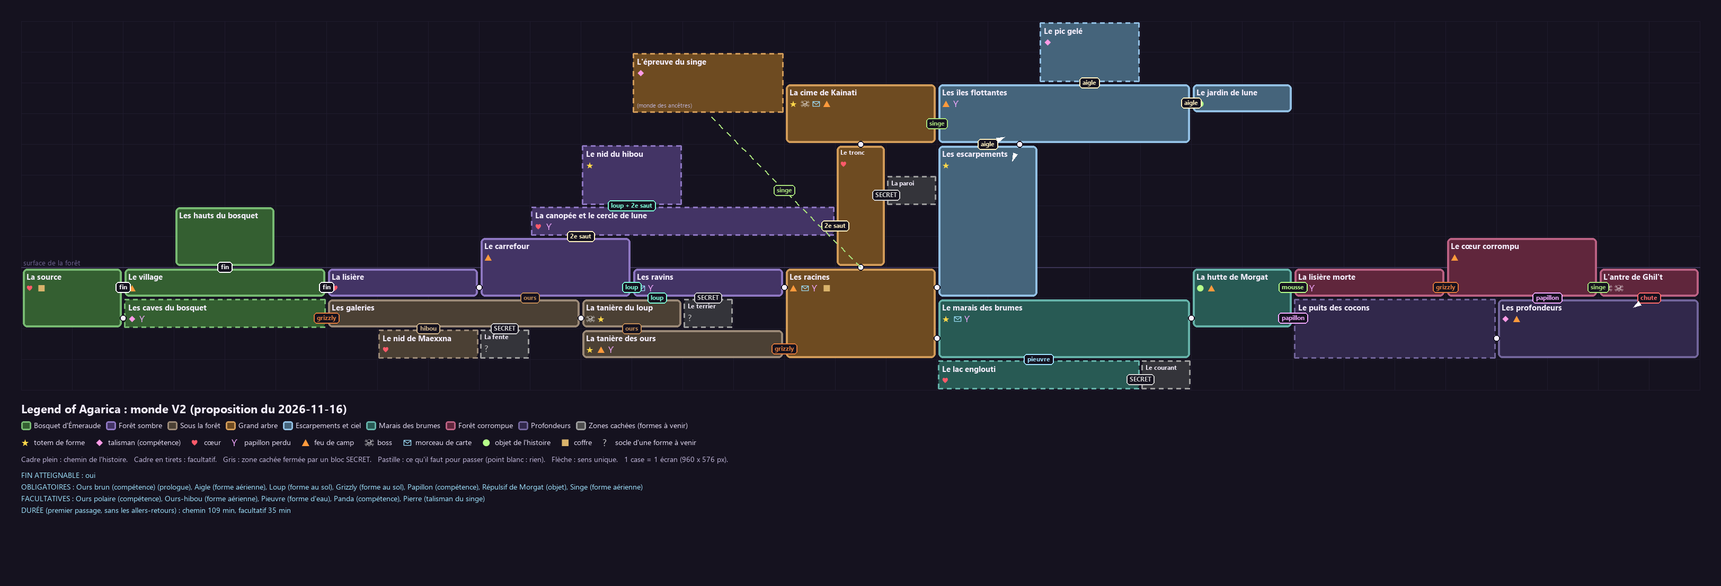
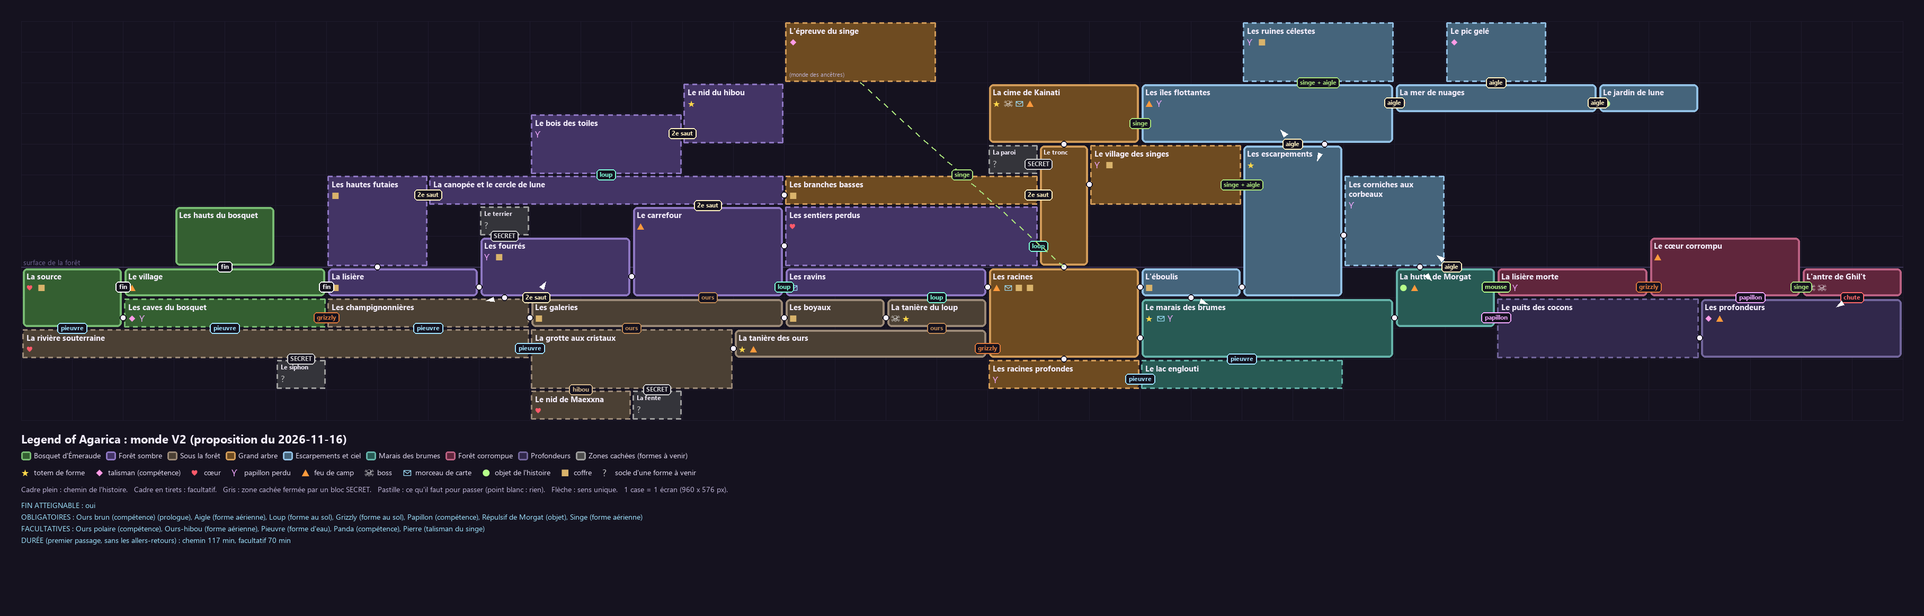
Monde V2 : 15 zones de pure exploration en plus (foret sombre, sous la foret, grand arbre, escarpements et ciel), 48 zones, recompenses et fiches mises a jour

Changed region(s): [[0.0, 0.0307, 0.9951, 0.8915]]

diff --git a/docs/production/PLAN_MONDE_V2.md b/docs/production/PLAN_MONDE_V2.md
@@ -1,7 +1,8 @@
 # Monde V2 : la nouvelle carte, conçue de zéro
 
 Version du 2026-11-16, après « on peut rien faire de bien sur une base bancale, refais tout un plan,
-toute une carte de 0 ». Rien ne part des zones actuelles ; seuls les mécaniques, les personnages et
+toute une carte de 0 », puis « je veux beaucoup plus de zones intermédiaires de pure exploration »
+(15 zones ajoutées dans la forêt sombre, sous la forêt, le grand arbre, les escarpements et le ciel). Rien ne part des zones actuelles ; seuls les mécaniques, les personnages et
 l'art des biomes sont repris. Rien n'est encore changé dans le jeu.
 
 **Fichiers :**
@@ -13,6 +14,8 @@ l'art des biomes sont repris. Rien n'est encore changé dans le jeu.
 **Tes réponses du 2026-11-16 :**
 - trame souple : on peut déplacer des événements, le fond de l'histoire reste ;
 - durée visée : environ 1 h 30 pour l'histoire, plus 1 h de secrets ;
+- plus de zones de pure exploration : 3 à 4 de plus dans chacune des quatre régions qui suivent le
+  bosquet ;
 - formes obligatoires : « au plus naturel », mais surtout pas une ligne droite ;
 - bosquet : retour en cachette.
 
@@ -21,8 +24,8 @@ l'art des biomes sont repris. Rien n'est encore changé dans le jeu.
 1. **Chaque zone a une raison d'exister** : une scène de l'histoire, une forme à obtenir, un verrou à
    montrer, un raccourci ou une récompense. Aucune zone de remplissage ; les fiches du § 7 donnent la
    raison de chacune.
-2. **On voit le verrou avant d'avoir la clé.** Chaque forme obligatoire est vue fermée dans 2 à
-   7 zones avant d'être obtenue (mesuré par le script, § 9). Xara commente chaque passage fermé.
+2. **On voit le verrou avant d'avoir la clé.** Chaque capacité obligatoire est vue fermée dans 3 à
+   13 zones avant d'être obtenue (mesuré par le script, § 9). Xara commente chaque passage fermé.
 3. **On se sert d'une forme tout de suite** :
    - la sortie de la tanière du loup demande le loup ;
    - le combat de Kainati se joue dans les lianes, juste après le totem du singe ;
@@ -98,7 +101,11 @@ Le crapaud reste hors du monde, comme tu l'as dit.
 
 ![Carte du monde V2](monde_v2/carte.png)
 
-- **33 zones** : 21 sur le chemin de l'histoire, 8 facultatives et 4 zones cachées.
+- **48 zones** : 25 sur le chemin de l'histoire, 19 facultatives et 4 zones cachées.
+- **15 zones de pure exploration** ont été ajoutées (marquées ✚ dans les fiches) :
+  - 4 sont **sur le chemin**, entre deux étapes de l'histoire : fourrés, boyaux, éboulis, mer de
+    nuages ;
+  - 11 sont **des boucles** qui relient deux chemins, avec une récompense au bout.
 - **8 régions** : Bosquet, Forêt sombre, Sous la forêt, Grand arbre, Escarpements et ciel, Marais,
   Forêt corrompue, Profondeurs.
 - La géographie se tient :
@@ -108,26 +115,28 @@ Le crapaud reste hors du monde, comme tu l'as dit.
   - la falaise des escarpements surplombe le marais ;
   - la corruption s'étend à l'est et descend dans les profondeurs ;
   - la plante pousse sur un rocher au-dessus de la corruption, la seule chose qu'elle ne touche pas.
-- Une case de la carte vaut un écran (960 × 576 px). L'ensemble fait environ 170 écrans, contre
+- Une case de la carte vaut un écran (960 × 576 px). L'ensemble fait environ 215 écrans, contre
   environ 100 aujourd'hui.
 
 ## 5. Le parcours : un ordre libre
 
 ```
-Prologue (bosquet) ── bannissement ── lisière ── carrefour (Xara) ── galeries ── LOUP
-                                                                                  │
-            ┌───────────────────┬────────────────────┬───────────────────┬────────┘
-            ▼                   ▼                    ▼                   ▼
-   SINGE (arbre, Kainati)   AIGLE (escarpements)   GRIZZLY (tanière     Morgat, 1re visite
-            │                   │                   des ours)            (facultative)
-            │                   ▼                    │                   │
-            │              PLANTE (jardin, Amanite)  │                   │
-            │                   ▼                    │                   │
-            │              RÉPULSIF (Morgat) ◄───────┼───────────────────┘
-            ▼                   ▼                    ▼
-            └───────► FORÊT CORROMPUE (mousse + grizzly + singe) ◄─┘
-                                ▼
-                 Ghil't (défaite) ── profondeurs : PAPILLON ── Ghil't soigné ── fin
+Prologue (bosquet) ── lisière ── fourrés ── carrefour (Xara) ── galeries ── boyaux ── LOUP
+                                                                                       │
+          ┌────────────────────┬──────────────────────┬───────────────────┬────────────┘
+          ▼                    ▼                      ▼                   ▼
+   SINGE (arbre,        AIGLE (éboulis,         GRIZZLY (tanière     Morgat, 1re visite
+   Kainati)             escarpements)           des ours)            (facultative)
+          │                    ▼                      │                   │
+          │             mer de nuages                 │                   │
+          │                    ▼                      │                   │
+          │             PLANTE (jardin, Amanite)      │                   │
+          │                    ▼                      │                   │
+          │             RÉPULSIF (Morgat) ◄───────────┼───────────────────┘
+          ▼                    ▼                      ▼
+          └──────────► FORÊT CORROMPUE (mousse + grizzly + singe)
+                               ▼
+              Ghil't (défaite) ── profondeurs : PAPILLON ── Ghil't soigné ── fin
 ```
 
 Après le loup, il y a quatre buts dans l'ordre qu'on veut. La forêt corrompue demande les trois formes
@@ -135,88 +144,104 @@ et le répulsif. Le script le vérifie : le singe, l'aigle et le grizzly ne dema
 
 Trois exemples de parties :
 - **Par l'arbre** : loup → racines → tronc → cime (singe) → îles → on tombe aux escarpements (aigle) →
-  jardin (plante) → marais → Morgat (répulsif) → mur de pierre fermé → retour à la tanière des ours
+  mer de nuages → jardin (plante) → marais → Morgat (répulsif) → mur de pierre fermé → retour à la tanière des ours
   (grizzly) → forêt corrompue.
-- **Par la falaise** : loup → escarpements (aigle) → îles → jardin (plante) → Morgat → mur de pierre →
+- **Par la falaise** : loup → éboulis → escarpements (aigle) → îles → mer de nuages → jardin (plante) → Morgat → mur de pierre →
   tanière des ours → forêt corrompue : il faut des lianes → retour à l'arbre (singe) → forêt corrompue.
 - **Le curieux** : loup → il casse aussitôt le sol de la tanière (grizzly) → les caves du bosquet
   (panda, le père) → le reste.
 
 Durée estimée, au premier passage :
-- **histoire** : 109 minutes, plus les allers-retours, soit 1 h 45 à 2 h ; un peu au-dessus de ton
-  1 h 30 ;
-- **facultatif** : 35 minutes de zones, plus les cœurs, les papillons et les retours, soit environ 1 h.
+- **histoire** : 117 minutes, plus les allers-retours, soit environ 2 h 10. C'est au-dessus de ton
+  1 h 30, à cause des 4 zones d'exploration ajoutées sur le chemin ;
+- **facultatif** : 70 minutes de zones, plus les cœurs, les papillons et les retours, soit environ
+  1 h 30.
 
 Ce sont des estimations : on resserrera au chronomètre pendant la construction en blocs.
 
 ## 6. Ce qu'on trouve
 
-- **Cœurs** : on part avec 3, et il y a **7 graines de cœur**, chacune derrière une capacité
+Chaque zone d'exploration a au moins une récompense.
+
+- **Cœurs** : on part avec 3, et il y a **8 graines de cœur**, chacune derrière une capacité
   différente :
 
   | Où | Ce qu'il faut |
   |---|---|
-  | lisière | loup |
+  | sentiers perdus | loup |
   | source | second saut, en revenant par les caves |
   | cercle de lune | second saut |
   | tronc | grizzly |
   | nid de Maexxna | ours-hibou |
-  | lac englouti | pieuvre |
+  | rivière souterraine | pieuvre |
+  | mer de nuages | aigle |
   | puits des cocons | papillon |
 
   Le passif des ursidés en ajoute un.
-- **Papillons perdus de Morgat : 9**, au plus un par zone, chacun derrière un petit détour.
-  - Tous les 3 papillons, la compétence du papillon gagne un niveau.
+- **Papillons perdus de Morgat : 12**, au plus un par zone, presque tous dans les zones
+  d'exploration.
+  - Tous les 3 papillons, la compétence du papillon gagne un niveau (4 niveaux).
   - Morgat les reconnaît : ce sont les siens, partis chercher des plantes.
+- **Coffres d'Éclats de lune : 14**, souvent derrière une capacité obtenue plus tard. Les Éclats
+  s'achètent chez **Tamarin**, le marchand, qui s'installe au carrefour quand on revient avec le loup.
+  On en gagne aussi sur les ennemis.
 - **Cartes** :
   - Geralt en donne 4 (forêt et dessous, arbre, marais, forêt corrompue), Kainati celle du ciel ;
   - le bosquet est connu dès le départ ;
   - les profondeurs restent sans carte.
 - **Feux de camp : 9** : village, carrefour, racines, cime, îles, tanière des ours, hutte, cœur corrompu,
   profondeurs.
-- **Éclats de lune** :
-  - on en gagne sur les ennemis et dans les coffres (fond du bassin de la source : pieuvre ;
-    sous la dalle des racines : ours-hibou) ;
-  - **Tamarin**, le marchand, s'installe au carrefour quand on revient avec le loup.
 
 ## 7. Les zones, une par une
 
 Taille en écrans (largeur × hauteur). « Vu » : les verrous qu'on y voit avant d'avoir la clé.
+✚ : zone de pure exploration ajoutée.
 
 ### Bosquet d'Émeraude : prologue, retour en cachette, épilogue
 
 | Zone | Pourquoi elle existe | Vu, sorties |
 |---|---|---|
 | **Le village** (4×1) | Prologue : marcher, sauter, couper les ronces de mousse à la dague. Le père confie le talisman de l'ours. Feu de camp. On y revient pour l'épilogue. | Sorties vers la source (ouest), les hauts (en haut) et la porte de l'Est. Après le bannissement, tout est barré jusqu'à la fin. |
-| **La source** (2×2) | Le bassin est étouffé par la mousse : on casse un sol fissuré avec l'ours pour libérer l'eau. C'est le tutoriel de l'ours, et l'eau qui recoule est la récompense. Premier petit monstre de mousse. | Dès le prologue, on voit : un cœur sur une corniche trop haute (second saut), le fond du bassin où l'eau s'engouffre (pieuvre : un coffre), une porte barrée vers les caves. |
+| **La source** (2×2) | Le bassin est étouffé par la mousse : on casse un sol fissuré avec l'ours pour libérer l'eau. C'est le tutoriel de l'ours, et l'eau qui recoule est la récompense. Premier petit monstre de mousse. | Dès le prologue, on voit : un cœur sur une corniche trop haute (second saut), le fond du bassin où l'eau s'engouffre (pieuvre : coffre, et la rivière souterraine), une porte barrée vers les caves. |
 | **Les hauts du bosquet** (2×2) | La nuit, Agarica voit Amanite monter au sanctuaire : vol de l'idole, mensonge, découverte, bannissement. On y apprend le petit saut. | Se rouvre après la fin. |
-| **Les caves du bosquet** (4×1, facultatif) | Le retour en cachette, par le mur fissuré des galeries (grizzly). On entend le père défendre sa fille à travers le plancher. Sur l'autel des anciens guérisseurs, le talisman du panda. Papillon 9. | On débarre de l'intérieur la porte de la source : elle redevient visitable (cœur, coffre). |
+| **Les caves du bosquet** (4×1, facultatif) | Le retour en cachette, par le mur fissuré des champignonnières (grizzly) ou par la rivière (pieuvre). On entend le père défendre sa fille à travers le plancher. Sur l'autel des anciens guérisseurs, le talisman du panda. Papillon 12. | On débarre de l'intérieur la porte de la source : elle redevient visitable. |
 
 ### Forêt sombre
 
 | Zone | Pourquoi elle existe | Vu, sorties |
 |---|---|---|
-| **La lisière** (3×1) | Bannie, seule, la nuit : premiers vrais combats (loups sanguinaires). La porte de l'Est est barrée derrière soi. | Un cœur de l'autre côté d'un ravin trop large (loup). |
-| **Le carrefour** (3×2) | La clairière centrale, où l'on repasse souvent. Rencontre de Xara, feu de camp, plus tard Tamarin. Au loin dans le ciel, le rocher de lune où brille la plante. | Le grand ravin à l'est (loup) et la corniche de la canopée (second saut). Le sol sonne creux : Xara le fait remarquer, on le casse avec l'ours et on descend aux galeries. |
-| **Les ravins** (3×1) | Après le loup : longs sauts, pistes et plateformes cachées. Geralt et son combat ridicule : carte de la forêt. Papillon 2, par les plateformes cachées. | Bloc SECRET : terre meuble (canidé). On repart vers les racines. |
-| **La canopée et le cercle de lune** (6×1, facultatif) | Les branches au-dessus du carrefour, jusqu'au tronc : un raccourci. Le cercle de lune : pierres levées et fresque des formes, l'histoire du Cercle de la Lune. Cœur, papillon 4. | Des plateformes fantômes montent vers le nid du hibou (loup puis second saut). |
-| **Le nid du hibou** (2×2, facultatif) | Un nid géant dans les hautes branches, avec le totem de l'ours-hibou. On en sort en cassant la dalle du nid en retombant : premier usage. | — |
+| **La lisière** (3×1) | Bannie, seule, la nuit : premiers vrais combats (loups sanguinaires). La porte de l'Est est barrée derrière soi. | Un coffre de l'autre côté d'un ravin trop large (loup). On peut grimper vers les hautes futaies. |
+| ✚ **Les hautes futaies** (2×3, facultatif) | Une montée sur des troncs couchés au-dessus de la lisière, pour qui veut grimper dès le début. En haut, le premier panorama : le grand arbre au loin, et la lueur de la plante encore plus loin. Le joueur voit tout de suite qu'il y a un monde à explorer. Coffre au sommet par les plateformes cachées (loup). | Le haut rejoint la canopée (second saut). |
+| ✚ **Les fourrés** (3×2, chemin) | Entre la lisière et le carrefour, sur deux étages : un sentier bas sous les ronces, un sentier haut dans les branches. On y apprend à fouiller : une haie de ronces cède à la dague et cache le papillon 1. | Coffre sur la haute branche (second saut). Bloc SECRET : terre meuble dans un talus (canidé). Un puits de champignons descend aux champignonnières ; on le remonte avec le second saut. |
+| **Le carrefour** (3×3) | La clairière centrale, où l'on repasse souvent. Rencontre de Xara, feu de camp, plus tard Tamarin. | Le grand ravin à l'est (loup), la corniche de la canopée (second saut), les sentiers perdus au nord-est. Le sol sonne creux : Xara le fait remarquer, on le casse avec l'ours et on descend aux galeries. |
+| ✚ **Les sentiers perdus** (5×2, facultatif) | Un labyrinthe de sentiers. On y entre dès le début, mais les fausses pistes ramènent au carrefour : c'est le loup qui « distingue une fausse piste d'une vraie ». Avec lui, les empreintes montrent la vraie piste, vers un cœur au centre et vers le pied du tronc : un second chemin vers l'arbre. | La vraie piste (loup). |
+| **Les ravins** (4×1) | Après le loup : longs sauts, pistes et plateformes cachées. Geralt et son combat ridicule : carte de la forêt. | On repart vers les racines. |
+| **La canopée et le cercle de lune** (7×1, facultatif) | Les branches au-dessus de la forêt, des futaies jusqu'aux branches basses de l'arbre. Le cercle de lune : pierres levées et fresque des formes, l'histoire du Cercle de la Lune. Cœur. | Des plateformes fantômes montent vers le bois des toiles (loup). |
+| ✚ **Le bois des toiles** (3×2, facultatif) | Des arbres couverts de toiles, où l'on avance lentement entre les fils. Les araignées s'écartent devant Xara sans qu'elle explique pourquoi : un indice de son secret. Le papillon 2 est pris dans une toile. | Le nid du hibou plus haut (second saut). |
+| **Le nid du hibou** (2×2, facultatif) | Un nid géant dans les plus hautes branches, avec le totem de l'ours-hibou. On en sort en cassant la dalle du nid en retombant : premier usage. | — |
 
 ### Sous la forêt
 
 | Zone | Pourquoi elle existe | Vu, sorties |
 |---|---|---|
-| **Les galeries** (5×1) | Les tunnels sous le carrefour, avec araignées et toiles. Un escalier de racines permet de remonter au trou. | Mur fissuré à l'ouest (grizzly : les caves). Dalle gravée d'araignées (ours-hibou : nid de Maexxna). Mousse sur une niche (répulsif : papillon 1). Bloc SECRET : fente minuscule (insecte). |
-| **La tanière du loup** (2×1) | Le loup alpha garde le totem du loup. On ressort par le haut grâce aux plateformes cachées : on se sert du loup aussitôt obtenu. | Un sol fissuré (ours) mène à la tanière des ours. On peut y descendre tout de suite, et en remonter sans le loup. |
-| **La tanière des ours** (4×1) | L'ancienne tanière des ours du peuple d'Agarica : griffures et fresques. De longs sauts (loup) mènent au totem du grizzly, avec un feu de camp à côté pour changer de forme. Papillon 7. | Sortie est : un mur fissuré (grizzly) vers les racines, qu'on voit aussi depuis les racines. C'est un raccourci. |
+| ✚ **Les champignonnières** (4×1, facultatif) | Des champignons géants lumineux sous la lisière et les fourrés : une boucle entre les galeries et la surface. Papillon 3 derrière la mousse (répulsif). | Mur fissuré à l'ouest (grizzly : les caves du bosquet). Berge de la rivière (pieuvre). Le puits des fourrés, en haut (second saut). |
+| **Les galeries** (5×1) | Les tunnels sous le carrefour, avec araignées et toiles. C'est le nœud du dessous : champignonnières à l'ouest, boyaux à l'est, grotte aux cristaux en dessous. Un escalier de racines permet de remonter au trou. | Coffre derrière la mousse (répulsif). Sol fissuré vers la grotte aux cristaux (ours). |
+| ✚ **Les boyaux** (2×1, chemin) | Des tunnels étroits juste avant la tanière : on entend hurler le loup alpha, des loups tendent des embuscades. La tension monte avant le mini-boss. Coffre sous un sol fissuré. | — |
+| **La tanière du loup** (2×1) | Le loup alpha garde le totem du loup. On ressort par le haut grâce aux plateformes cachées : on se sert du loup aussitôt obtenu. | Un sol fissuré (ours) mène à la tanière des ours. On peut en remonter sans le loup. |
+| ✚ **La grotte aux cristaux** (4×2, facultatif) | Une grande grotte éclairée par des cristaux de lune, sous les galeries. Elle relie les galeries, la tanière des ours et la rivière. Papillon 4. | Dalle gravée d'araignées (ours-hibou : nid de Maexxna). Eau (pieuvre : rivière). Bloc SECRET : fente minuscule entre les cristaux (insecte). |
+| **La tanière des ours** (5×1) | L'ancienne tanière des ours du peuple d'Agarica : griffures et fresques. De longs sauts (loup) mènent au totem du grizzly, avec un feu de camp à côté pour changer de forme. On y entre par la tanière du loup ou par la grotte aux cristaux. | Sortie est : un mur fissuré (grizzly) vers les racines, qu'on voit aussi depuis les racines. C'est un raccourci. |
+| ✚ **La rivière souterraine** (10×1, facultatif) | La rivière qui part de la source du bosquet et file sous toute la forêt, à la nage (pieuvre). La pieuvre y gagne une vraie utilité : un réseau rapide entre la source, les caves, les champignonnières et la grotte aux cristaux. Cœur dans une grotte noyée. | Bloc SECRET : un siphon au courant trop fort (poisson). |
 | **Le nid de Maexxna** (2×1, facultatif) | Sous la dalle, la salle du trône d'une reine araignée. Les fresques montrent une araignée couronnée aux yeux de Xara. Xara : « Ne restons pas ici. » Cœur. | — |
 
 ### Grand arbre
 
 | Zone | Pourquoi elle existe | Vu, sorties |
 |---|---|---|
-| **Les racines** (3×3) | Le pied de l'arbre : ponts et tunnels de racines sur trois étages. Feu de camp. Geralt ne sait pas grimper : il donne la carte de l'arbre et reste en bas. L'arche de l'épreuve est ici. | Sorties : tronc (en haut), escarpements (à l'est, en haut), marais (à l'est, en bas). Lianes trop hautes (singe). Noix suspendue (pierre : papillon 3). Dalle (ours-hibou : coffre). Mur fissuré de la tanière des ours. |
-| **Le tronc** (1×4) | L'intérieur creux de l'arbre : la grande montée, avec des singes corrompus. | Porte de la canopée (second saut). Mur fissuré (grizzly : cœur). Bloc SECRET : paroi lisse (félin). |
+| **Les racines** (3×3) | Le pied de l'arbre : ponts et tunnels de racines sur trois étages. Feu de camp. Geralt ne sait pas grimper : il donne la carte de l'arbre et reste en bas. L'arche de l'épreuve est ici. | Sorties : tronc (en haut), éboulis (à l'est), marais (à l'est, en bas), racines profondes (en bas). Noix suspendue (pierre : coffre). Dalle (ours-hibou : coffre). Mur fissuré de la tanière des ours. |
+| ✚ **Les racines profondes** (3×1, facultatif) | Les racines plongent dans une eau noire, et l'on voit la mousse remonter par l'eau jusque dans l'arbre : c'est ce qui le rend malade. Papillon 5. | L'eau au bout des racines mène au lac englouti (pieuvre). |
+| **Le tronc** (1×4) | L'intérieur creux de l'arbre : la grande montée, avec des singes corrompus. | Branches basses (second saut). Village des singes. Mur fissuré (grizzly : cœur). Bloc SECRET : paroi lisse (félin). Les sentiers perdus arrivent à son pied (loup). |
+| ✚ **Les branches basses** (5×1, facultatif) | De longues branches au-dessus du vide, avec des corbeaux, entre la canopée et le tronc. Le raccourci entre la forêt et l'arbre devient un parcours. Coffre au bout de la plus longue branche. | — |
+| ✚ **Le village des singes** (3×2, facultatif) | Des huttes dans les branches, à mi-hauteur du tronc. Avant Kainati, les singes sont corrompus et attaquent ; après, ils sont amis et parlent de leur roi. Papillon 6, coffre dans la plus haute hutte (singe). | Il relie l'arbre aux escarpements par les lianes (singe) ou au plané (aigle) : une boucle entre l'arbre et la falaise. |
 | **La cime de Kainati** (3×2) | Le totem du singe s'allume, Kainati attaque. On le combat dans les lianes, on l'épargne, et il donne la carte du ciel. Feu de camp. | Lianes de la couronne vers les îles (singe). |
 | **L'épreuve du singe** (poche, facultatif) | Le monde des ancêtres, par l'arche des racines : une course de lianes sans toucher le sol, plus courte qu'aujourd'hui. Talisman du singe : la pierre. | — |
 
@@ -224,8 +249,12 @@ Taille en écrans (largeur × hauteur). « Vu » : les verrous qu'on y voit avan
 
 | Zone | Pourquoi elle existe | Vu, sorties |
 |---|---|---|
+| ✚ **L'éboulis** (2×1, chemin) | Le pied de la falaise, couvert de rochers tombés, entre les racines et les escarpements. Coffre derrière un mur fissuré (grizzly). | On peut sauter dans le marais en contrebas. |
 | **Les escarpements** (2×5) | Une falaise à l'est de l'arbre. On grimpe sans forme spéciale ; l'aire de l'aigle (totem) demande un saut de loup. D'en haut, on se laisse tomber : c'est la redescente rapide depuis le ciel. | La colonne de courant d'air vers les îles (aigle), visible dès la première visite. |
-| **Les îles flottantes** (5×2) | Les îles au-dessus des nuages : des lianes à l'ouest (depuis la cime), des courants d'air à l'est. Feu de camp pour changer entre singe et aigle. Papillon 5. | Le rocher de lune derrière un vide immense (aigle). Un courant d'air vers les nuages (pic gelé). |
+| ✚ **Les corniches aux corbeaux** (2×3, facultatif) | La face est de la falaise, avec des nids de corbeaux, qui descend jusqu'à la hutte de Morgat. Papillon 7 dans un nid. C'est une boucle : on descend librement, on remonte par le courant d'air derrière la hutte (aigle). | — |
+| **Les îles flottantes** (5×2) | Les îles au-dessus des nuages : des lianes à l'ouest (depuis la cime), des courants d'air à l'est. Feu de camp pour changer entre singe et aigle. Papillon 8. | Les ruines célestes au-dessus (singe ou aigle). La mer de nuages à l'est (aigle). |
+| ✚ **Les ruines célestes** (3×2, facultatif) | Les ruines des premiers druides, sur des rochers flottants. Une fresque raconte comment ils ont lié l'esprit des bêtes aux totems : d'où viennent les formes d'Agarica. Papillon 9, coffre de l'autel. | — |
+| ✚ **La mer de nuages** (4×1, chemin) | Avant le jardin, un parcours au plané d'un nuage à l'autre, avec des corbeaux et des courants : l'examen de l'aigle. Cœur sur le nuage le plus haut. | Le pic gelé, par un courant d'air (aigle). |
 | **Le jardin de lune** (2×1) | Le rocher où pousse la plante que la mousse évite. Amanite est là : les deux amies veulent toujours sauver la forêt, mais plus de la même façon. On prend une pousse. | Retour au plané, ou en tombant par les escarpements. |
 | **Le pic gelé** (2×2, facultatif) | Au-dessus des nuages, du givre et du silence. Talisman de l'ours polaire. | — |
 
@@ -233,15 +262,15 @@ Taille en écrans (largeur × hauteur). « Vu » : les verrous qu'on y voit avan
 
 | Zone | Pourquoi elle existe | Vu, sorties |
 |---|---|---|
-| **Le marais** (5×2) | Un bassin brumeux sous les escarpements : passerelles, crapauds, eau profonde. L'îlot du totem de la pieuvre s'atteint par les lianes (singe) ou sur la glace (ours polaire). Geralt est chez les crapauds : carte du marais. Papillon 6, au milieu de la mare. | L'eau profonde (pieuvre : lac englouti). |
+| **Le marais** (5×2) | Un bassin brumeux sous les escarpements : passerelles, crapauds, eau profonde. L'îlot du totem de la pieuvre s'atteint par les lianes (singe) ou sur la glace (ours polaire). Geralt est chez les crapauds : carte du marais. Papillon 10, au milieu de la mare. | L'eau profonde (pieuvre : lac englouti). |
 | **La hutte de Morgat** (2×2) | Une hutte pleine de papillons. Sans la plante, Morgat explique ce qu'il faut et montre le totem de poche cassé ; avec la plante, elle prépare le répulsif. Feu de camp. | Dès la première visite : le mur de mousse derrière la hutte (répulsif, qui sert aussitôt) et la barrière corrompue en dessous (papillon : puits des cocons). |
-| **Le lac englouti** (4×1, facultatif) | Sous le marais, à la nage (pieuvre) : des ruines englouties et un cœur. | Bloc SECRET : un courant trop fort à remonter (poisson). |
+| **Le lac englouti** (4×1, facultatif) | Sous le marais, à la nage (pieuvre) : des ruines englouties et un coffre. On y arrive aussi par les racines profondes. | — |
 
 ### Forêt corrompue et profondeurs
 
 | Zone | Pourquoi elle existe | Vu, sorties |
 |---|---|---|
-| **La lisière morte** (3×1) | Arbres morts et créatures corrompues. Des cadavres percés par la lance d'Amanite : elle est passée avant. Geralt donne la carte de la forêt corrompue. Papillon 8. | Un mur fissuré (grizzly), obligatoire. |
+| **La lisière morte** (3×1) | Arbres morts et créatures corrompues. Des cadavres percés par la lance d'Amanite : elle est passée avant. Geralt donne la carte de la forêt corrompue. Papillon 11. | Un mur fissuré (grizzly), obligatoire. |
 | **Le cœur corrompu** (3×2) | Des fosses de mousse mortelle sous la canopée morte, qu'on franchit par les lianes (singe). Feu de camp à l'entrée, avant Ghil't. | Le puits vers les profondeurs, fermé par des barrières corrompues (papillon). |
 | **L'antre de Ghil't** (2×1) | Premier combat : défaite imposée, la chute. Second combat : le soin au papillon. Amanite l'achève, Geralt arrive, puis l'épilogue au village. | — |
 | **Les profondeurs** (4×2) | On se réveille dans le noir parmi les papillons ; le bocal d'antidote et le totem de poche donnent le papillon. Feu de camp. On remonte en soignant des créatures et des barrières corrompues : on apprend le papillon en s'en servant. Plus bas, une racine noire qui pulse : la mousse vient de plus profond. | Sortie haute : le puits vers le cœur corrompu (papillon). |
@@ -254,10 +283,10 @@ fermée par un **bloc SECRET** : un rectangle provisoire où est écrit « SECRE
 
 | Zone | Entrée | Forme attendue |
 |---|---|---|
-| Le terrier | terre meuble, dans les ravins | un canidé qui creuse (renard ou blaireau) |
-| La fente | fente minuscule, dans les galeries | un insecte |
-| La paroi | paroi lisse, dans le tronc | un félin qui griffe |
-| Le courant | courant trop fort, au bout du lac englouti | un poisson |
+| Le terrier | terre meuble dans un talus des fourrés | un canidé qui creuse (renard ou blaireau) |
+| La fente | fente minuscule entre les cristaux de la grotte | un insecte |
+| La paroi | paroi lisse dans le tronc | un félin qui griffe |
+| Le siphon | courant trop fort dans la rivière souterraine | un poisson |
 
 ## 8. Ce qu'il faut fabriquer
 
@@ -304,7 +333,7 @@ fermée par un **bloc SECRET** : un rectangle provisoire où est écrit « SECRE
 
 `python tools/monde_v2.py` vérifie la carte avant qu'on construise quoi que ce soit. Résultat actuel :
 - **géométrie** : aucune zone ne se chevauche, et chaque passage relie deux zones qui se touchent ;
-- **fin** : atteignable depuis le bannissement. 29 zones sur 33 sont atteignables ; les 4 autres sont
+- **fin** : atteignable depuis le bannissement. 44 zones sur 48 sont atteignables ; les 4 autres sont
   les zones cachées, fermées exprès ;
 - **obligatoires** : ours brun, loup, grizzly, singe, aigle, répulsif, papillon ;
 - **prérequis** : le singe, l'aigle et le grizzly ne demandent que le loup (c'est l'ordre libre). La
@@ -313,15 +342,18 @@ fermée par un **bloc SECRET** : un rectangle provisoire où est écrit « SECRE
 
   | Capacité | Zones où on la voit avant de l'avoir |
   |---|---|
-  | loup | 4 |
-  | grizzly | 4 |
-  | singe | 7 |
-  | aigle | 5 |
-  | répulsif | 2 |
+  | loup | 8 |
+  | grizzly | 5 |
+  | singe | 13 |
+  | aigle | 11 |
+  | répulsif | 3 |
   | papillon | 4 |
 
-- **changements de forme** : la tanière des ours (loup puis grizzly), les racines et les îles (deux
-  formes aériennes) ont un feu de camp dans la zone ou à côté.
+- **changements de forme** : la tanière des ours et le tronc (loup et grizzly), les racines et les îles
+  (deux formes aériennes) ont un feu de camp dans la zone ou à côté.
+
+Le script a déjà servi : en ajoutant les zones, il a trouvé qu'une chute des sentiers perdus dans les
+ravins permettait d'atteindre l'arbre sans le loup. La chute a été retirée.
 
 Le script redessine la carte à chaque modification de `monde.json`.
 
@@ -351,6 +383,6 @@ Tout se fait sur une nouvelle branche ; la démo actuelle reste jouable en atten
 
 1. La carte et l'ordre libre (§ 4 et 5).
 2. Les 11 changements d'histoire (§ 2).
-3. La durée : environ 1 h 45 à 2 h pour l'histoire. On garde, ou on retire une zone ?
+3. La durée : environ 2 h 10 pour l'histoire et 1 h 30 de secrets. On garde, ou on raccourcit ?
 4. Les noms des zones.
 5. Les formes attendues des quatre zones cachées (§ 7).
